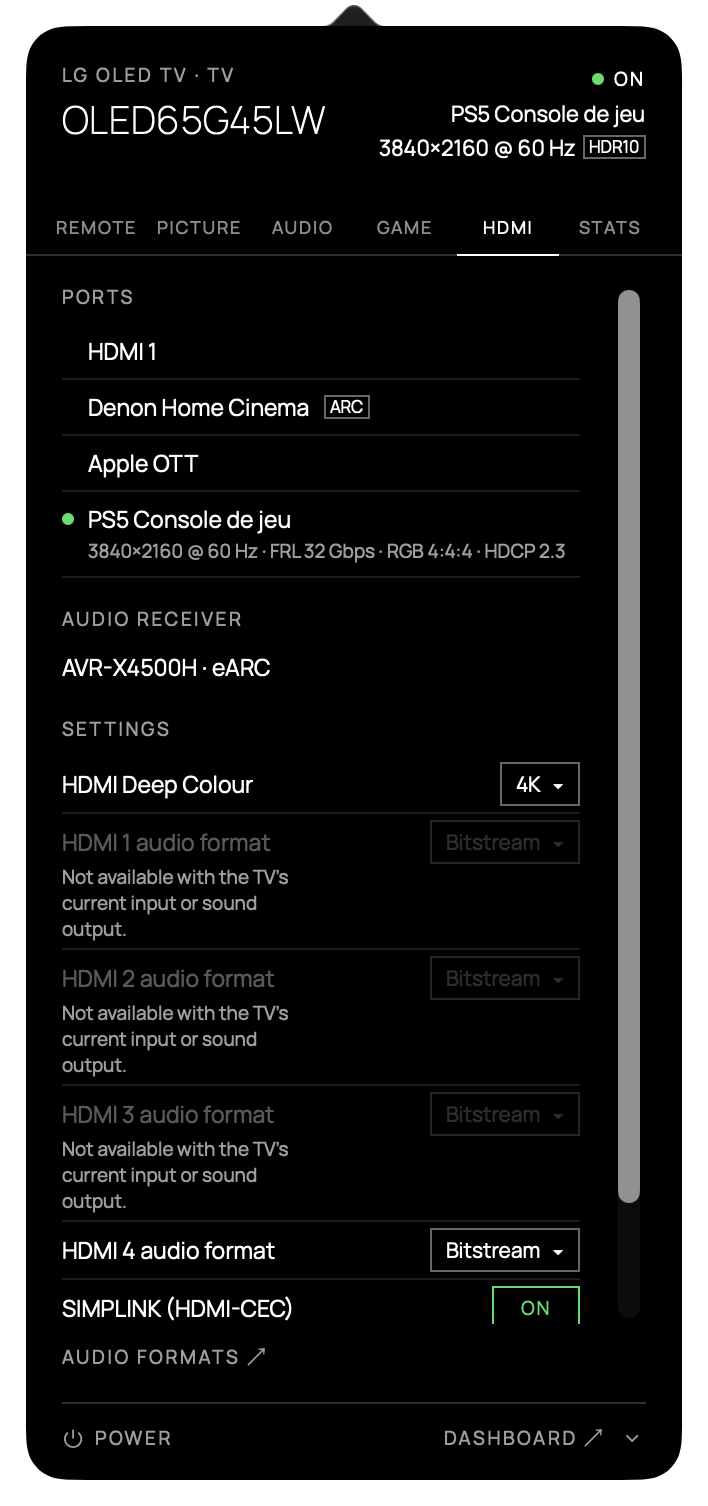
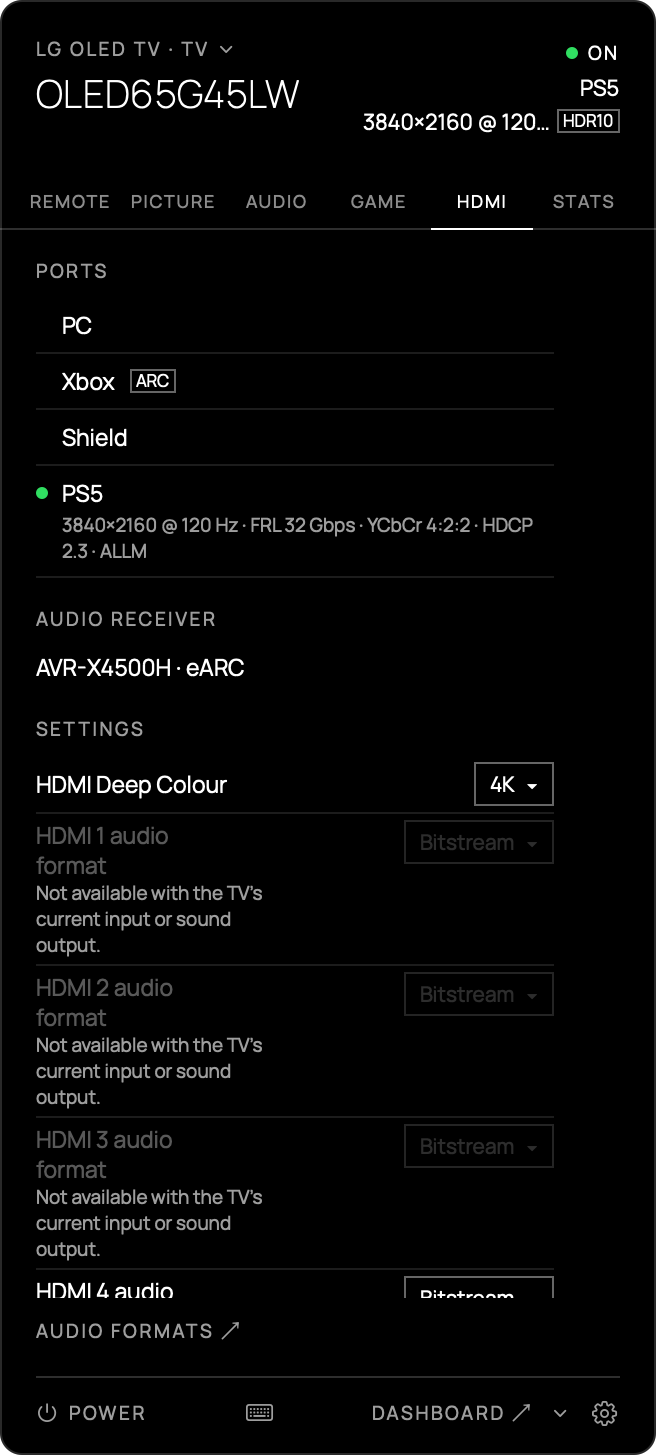
Redo the README screenshots in English at 2x: a hero image, a full-size gallery, Apple TV, Netflix and Spotify tiles, generic input names.
Add the Debug flags -PaneDemoInputs (inputs named PC, Xbox, Shield, PS5) and -PaneSnapshot (the popover drawn at 2x into a PNG), and neutral demo pins.

Claude-Session: https://claude.ai/code/session_016PMmHN3R41HXg7yREeF9bU

diff --git a/App/DemoInputsAPI.swift b/App/DemoInputsAPI.swift
@@ -1,0 +1,57 @@
+#if DEBUG
+import Foundation
+import PaneKit
+
+/// For -PaneDemoInputs (screenshots): the TV's HDMI inputs named PC, Xbox, Shield and PS5 in every
+/// JSON answer, wherever their own names show (the inputs, the current app, the HDMI ports).
+struct DemoInputsAPI: GlasshouseAPI {
+    let base: GlasshouseClient
+    private let labels = Labels()
+
+    private static let names = ["hdmi1": "PC", "hdmi2": "Xbox", "hdmi3": "Shield", "hdmi4": "PS5"]
+
+    init(base: GlasshouseClient) { self.base = base }
+
+    /// The TV's own name of each input, as the stats last gave them.
+    private actor Labels {
+        var renames: [String: String] = [:]
+        func learn(_ inputs: [String: String]) {
+            for (id, label) in inputs { if let name = DemoInputsAPI.names[id] { renames[label] = name } }
+        }
+    }
+
+    func get<T: Decodable & Sendable>(_ path: String, as: T.Type) async throws(APIError) -> T {
+        let data = try await base.getData(path)
+        guard let object = try? JSONSerialization.jsonObject(with: data) else { throw .decoding("not JSON") }
+        if path == "/api/stats", let inputs = (object as? [String: Any])?["inputs"] as? [String: String] {
+            await labels.learn(inputs)
+        }
+        let renamed = Self.rename(object, await labels.renames)
+        do {
+            return try JSONDecoder().decode(T.self, from: JSONSerialization.data(withJSONObject: renamed))
+        } catch {
+            throw .decoding(String(describing: error))
+        }
+    }
+
+    func getText(_ path: String) async throws(APIError) -> String { try await base.getText(path) }
+    func getData(_ path: String) async throws(APIError) -> Data { try await base.getData(path) }
+    func send(_ command: Command) async throws(APIError) { try await base.send(command) }
+
+    /// A string equal to an input's name becomes the demo name; a longer one that contains a
+    /// name of the TV's own ("PS5 Console de jeu (HDMI4)") has it replaced, but not "HDMI 1".
+    private static func rename(_ value: Any, _ renames: [String: String]) -> Any {
+        switch value {
+        case let s as String:
+            if let exact = renames[s] { return exact }
+            return renames.reduce(s) { text, pair in
+                pair.key.range(of: #"^HDMI ?\d$"#, options: .regularExpression) == nil
+                    ? text.replacingOccurrences(of: pair.key, with: pair.value) : text
+            }
+        case let array as [Any]: return array.map { rename($0, renames) }
+        case let object as [String: Any]: return object.mapValues { rename($0, renames) }
+        default: return value
+        }
+    }
+}
+#endif

diff --git a/App/PaneApp.swift b/App/PaneApp.swift
@@ -66,6 +66,10 @@ struct PaneApp: App {
                 try? await Task.sleep(for: .milliseconds(500))
                 statusBar.showForScreenshot()
                 if let keys { statusBar.keyboard.enterForScreenshot(keys) }
+                if let path = args.string(forKey: "PaneSnapshot") {
+                    try? await Task.sleep(for: .seconds(6))
+                    await statusBar.snapshot(to: path)
+                }
             }
         }
         if let pane = args.string(forKey: "PaneOpenPreferences").flatMap(PreferencesPane.init) {
@@ -116,14 +120,23 @@ struct PaneApp: App {
         return ActionStore(defaults: defaults)
     }
 
-    /// Two pins (an app, a setting) and an action of two steps open in the editor, for the active TV.
+    /// Six pins (three apps shown as their icons, an input with a setting, the screen, the sleep
+    /// timer) and an action of two steps open in the editor, for the active TV.
     private static func seedDemo(_ model: AppModel, pins: Bool, editor: Bool) {
         guard let tv = model.store.activeID else { return }
         let game = ActionStep.setting(id: "gameOptimization", section: "game", title: "VRR & G-Sync",
                                       value: .bool(true), valueLabel: "ON")
         if pins {
-            for steps: [ActionStep] in [[.launchApp(id: "youtube.leanback.v4", title: "YouTube")], [game]] {
-                let action = CustomAction(title: CustomAction.defaultTitle(steps, sources: []), steps: steps)
+            let demo: [(String?, [ActionStep])] = [
+                (nil, [.launchApp(id: "com.apple.appletv", title: "Apple TV")]),
+                (nil, [.launchApp(id: "netflix", title: "Netflix")]),
+                (nil, [.launchApp(id: "spotify-beehive", title: "Spotify")]),
+                ("PS5 + Game", [.button(.source("hdmi4")), game]),
+                (nil, [.screenOff]),
+                (nil, [.sleepTimer("30")]),
+            ]
+            for (title, steps) in demo {
+                let action = CustomAction(title: title ?? CustomAction.defaultTitle(steps, sources: []), steps: steps)
                 model.actions.save(action, for: tv)
                 model.actions.pin(action.id, for: tv)
             }

diff --git a/App/StatusBarController.swift b/App/StatusBarController.swift
@@ -108,6 +108,31 @@ import SwiftUI
         popover.behavior = .applicationDefined
         show()
     }
+
+    /// Draws the popover's content at twice its size into a PNG at `path`, whatever the screen's
+    /// scale, then quits (-PaneSnapshot).
+    func snapshot(to path: String) async {
+        guard let view = popover.contentViewController?.view, let root = view.layer else { return }
+        // SwiftUI's drawn layers (the text) are drawn again at 2x; its image layers keep their image.
+        func sharpen(_ layer: CALayer) {
+            if !String(describing: type(of: layer)).contains("ImageLayer") {
+                layer.contentsScale = 2
+                layer.setNeedsDisplay()
+            }
+            layer.sublayers?.forEach(sharpen)
+        }
+        sharpen(root)
+        view.displayIfNeeded()
+        try? await Task.sleep(for: .milliseconds(300))
+        let size = view.bounds.size
+        guard let rep = NSBitmapImageRep(bitmapDataPlanes: nil, pixelsWide: Int(size.width * 2), pixelsHigh: Int(size.height * 2),
+                                         bitsPerSample: 8, samplesPerPixel: 4, hasAlpha: true, isPlanar: false,
+                                         colorSpaceName: .deviceRGB, bytesPerRow: 0, bitsPerPixel: 0) else { return }
+        rep.size = size
+        view.cacheDisplay(in: view.bounds, to: rep)
+        try? rep.representation(using: .png, properties: [:])?.write(to: URL(fileURLWithPath: path))
+        NSApp.terminate(nil)
+    }
     #endif
 
     private func showMenu() {

diff --git a/App/AppModel.swift b/App/AppModel.swift
@@ -114,8 +114,12 @@ import SwiftUI
         }
         let client = GlasshouseClient(endpoint: store.endpoint(for: tv), timeout: Discovery.detailTimeout)
         self.client = client
+        var api: any GlasshouseAPI = client
+        #if DEBUG
+        if UserDefaults.standard.bool(forKey: "PaneDemoInputs") { api = DemoInputsAPI(base: client) }
+        #endif
         // The MAC the TV reports is stored: once it is off, it no longer reports one to wake it with.
-        session = TVSession(api: client, mac: tv.mac, learnedMAC: { [weak self] mac in
+        session = TVSession(api: api, mac: tv.mac, learnedMAC: { [weak self] mac in
             self?.remember(mac: mac, for: tv.id)
         }, lostContact: { [weak self] in
             self?.relocate(tv.id)

diff --git a/README.md b/README.md
@@ -4,7 +4,7 @@
 
 A macOS menu-bar remote for an LG webOS TV running [Glasshouse](https://github.com/rorygallagher2024/glasshouse): remote control, sources, Picture, Audio and Game settings, HDMI ports and metrics, without opening the web dashboard. The rest of the dashboard opens from a link, on the right tab.
 
-![Control, keys shown](docs/screenshots/keys-dark.png)
+<p align="center"><img src="docs/screenshots/hero.png" width="830" alt="Pane's popover under its menu-bar icon: remote, inputs, and pinned Apple TV, Netflix and Spotify tiles"></p>
 
 - Keyboard remote while the popover is open: Arrows and Gaming profiles (by key position, whatever the keyboard layout), and every key can be changed in a Custom profile kept apart.
 - Pinned items: a setting or a sequence of actions on the Control tab, with its own key. A pin that launches an app can show the app's icon.
@@ -14,19 +14,20 @@ A macOS menu-bar remote for an LG webOS TV running [Glasshouse](https://github.c
 
 ## Screenshots
 
-<p align="center">
-  <img src="docs/screenshots/remote-dark.png" alt="Remote tab, dark theme" width="260">
-  &nbsp;
-  <img src="docs/screenshots/picture-dark.png" alt="Picture tab, dark theme" width="260">
-  &nbsp;
-  <img src="docs/screenshots/stats-dark.png" alt="Stats tab, dark theme" width="260">
-  <br>
-  <img src="docs/screenshots/hdmi-dark.png" alt="HDMI tab, dark theme" width="260">
-  &nbsp;
-  <img src="docs/screenshots/remote-light.png" alt="Remote tab, light theme" width="260">
-  <br>
-  <sub>Remote, Picture, Stats and HDMI tabs, in dark and light themes.</sub>
-</p>
+<table>
+  <tr>
+    <td align="center" valign="top"><img src="docs/screenshots/keys-dark.png" width="328" alt="Remote tab with the keyboard keys shown"><br><sub>Keyboard keys shown on every button</sub></td>
+    <td align="center" valign="top"><img src="docs/screenshots/remote-light.png" width="328" alt="Remote tab, light theme"><br><sub>Light theme</sub></td>
+  </tr>
+  <tr>
+    <td align="center" valign="top"><img src="docs/screenshots/picture-dark.png" width="328" alt="Picture tab"><br><sub>Picture settings, as the TV sends them</sub></td>
+    <td align="center" valign="top"><img src="docs/screenshots/hdmi-dark.png" width="328" alt="HDMI tab"><br><sub>HDMI ports, receiver and settings</sub></td>
+  </tr>
+  <tr>
+    <td align="center" valign="top"><img src="docs/screenshots/game-dark.png" width="328" alt="Game tab"><br><sub>Game settings</sub></td>
+    <td align="center" valign="top"><img src="docs/screenshots/stats-dark.png" width="328" alt="Stats tab"><br><sub>Live statistics</sub></td>
+  </tr>
+</table>
 
 ## Install
 
